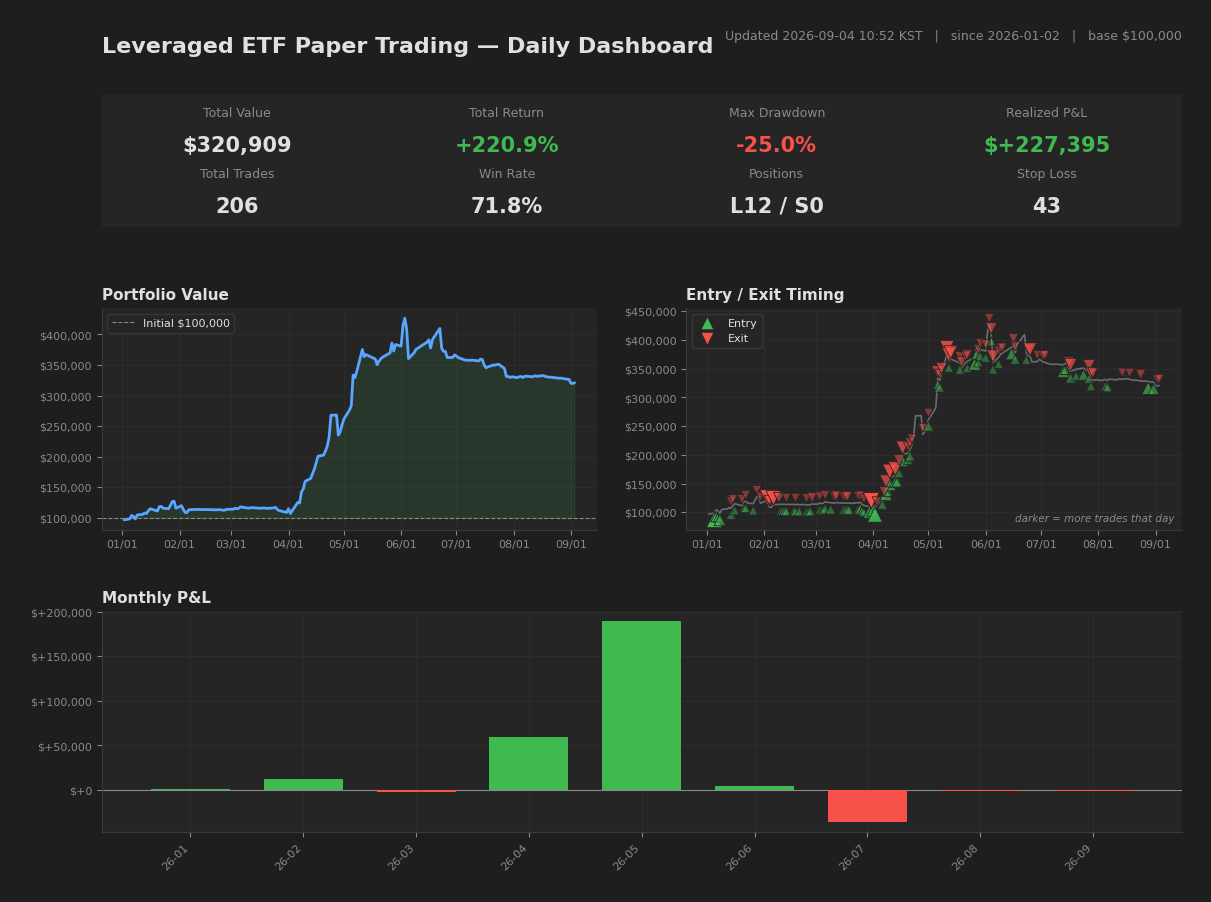
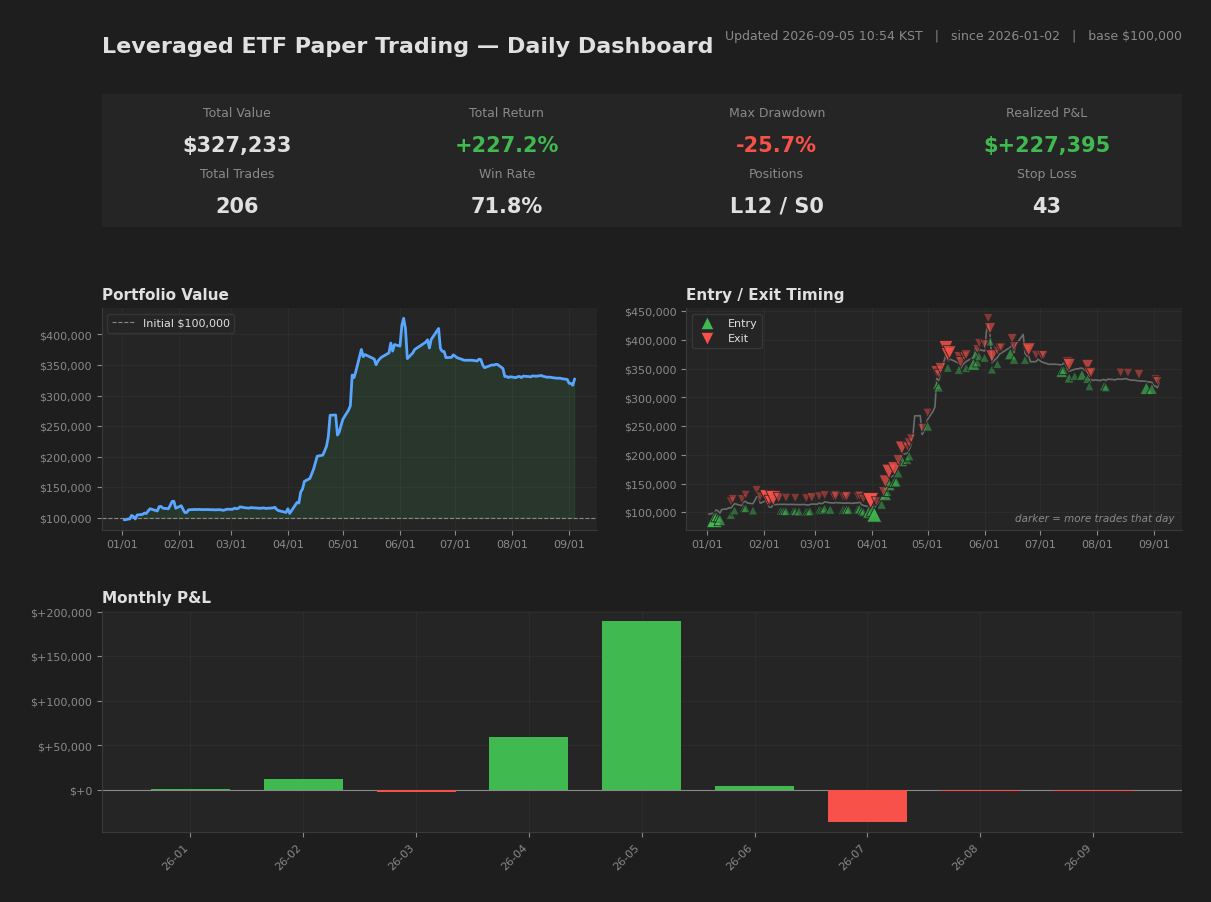
[2026-09-04] Close
Portfolio: $327,233 (+227.2%)
Positions: 12 (L12 S0)
Cumulative: 148/206 wins, P&L: $+227,395

diff --git a/README.md b/README.md
@@ -19,8 +19,8 @@ Focus on risk management, not headline returns. The strategy targets leveraged E
 Drawdown control vs. benchmark. While the benchmark experienced a maximum drawdown of roughly 40–50% over the same period, this strategy's own drawdown is reported below, measured from the paper-trading equity curve and refreshed automatically after each market close.
 
 <!-- METRICS:BEGIN (auto-generated by snapshot_backup.py after each market close; do not edit by hand) -->
-- Maximum drawdown: **-24.99%** (peak 2026-06-03 -> trough 2026-09-02, recovered since)
-- As of **2026-09-03** market close. Updated automatically after each close.
+- Maximum drawdown: **-25.68%** (peak 2026-06-03 -> trough 2026-09-03, recovered since)
+- As of **2026-09-04** market close. Updated automatically after each close.
 <!-- METRICS:END -->
 
 Execution costs. Because the strategy holds positions over multi-day periods with low turnover, the impact of slippage and commissions is designed to be limited rather than a primary driver of results.
